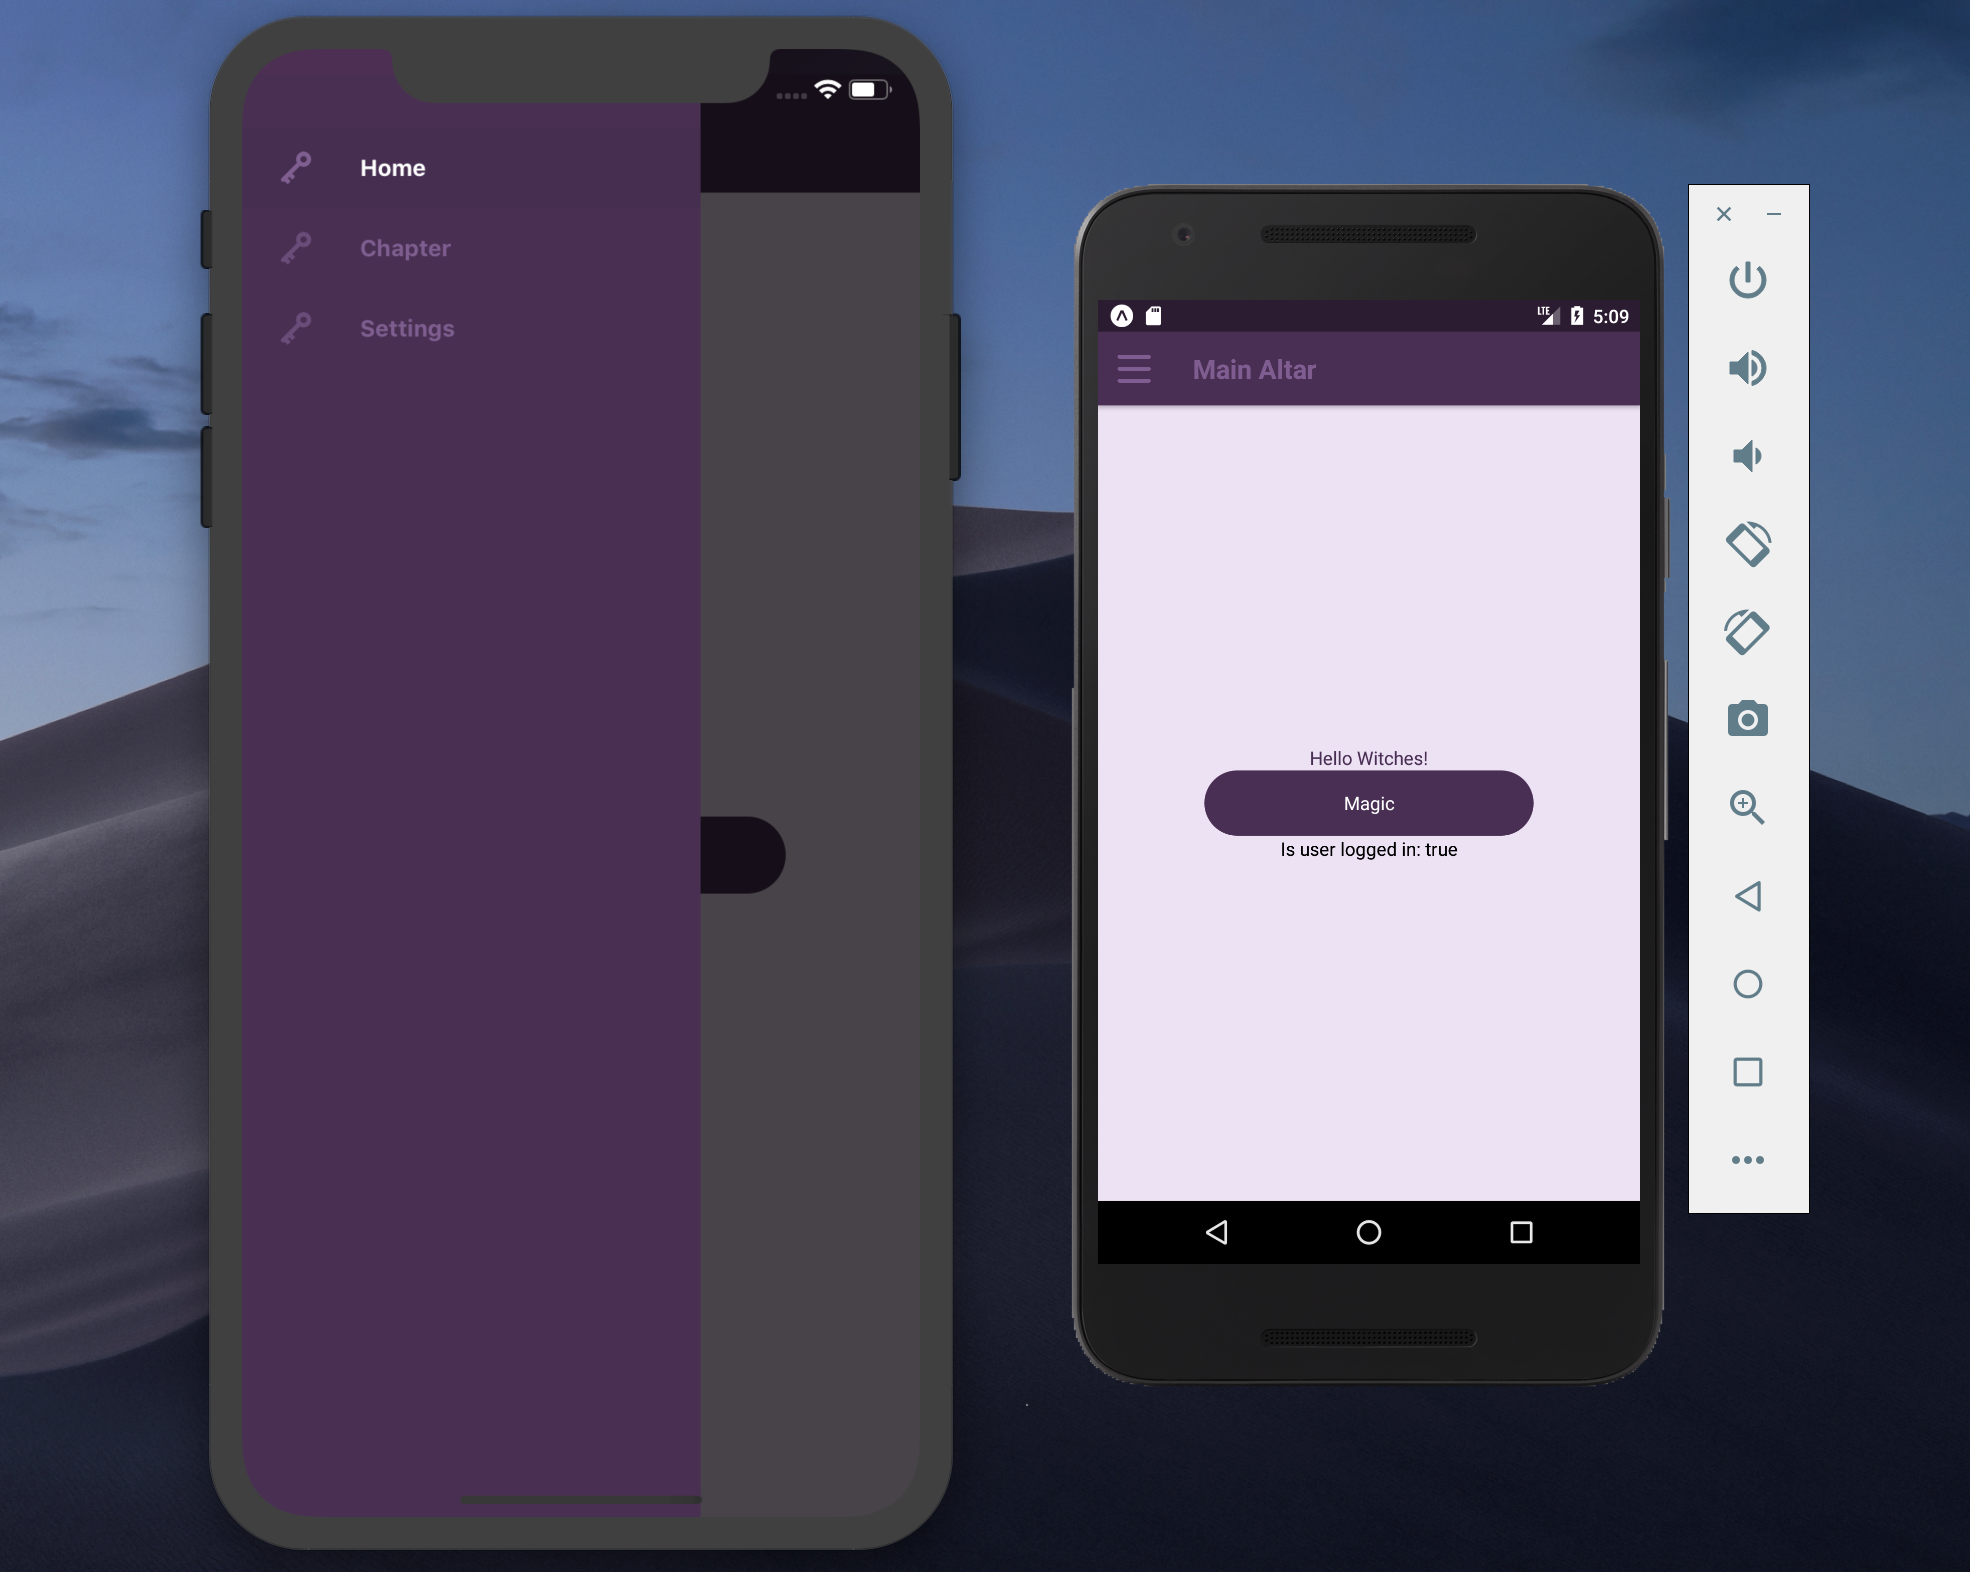
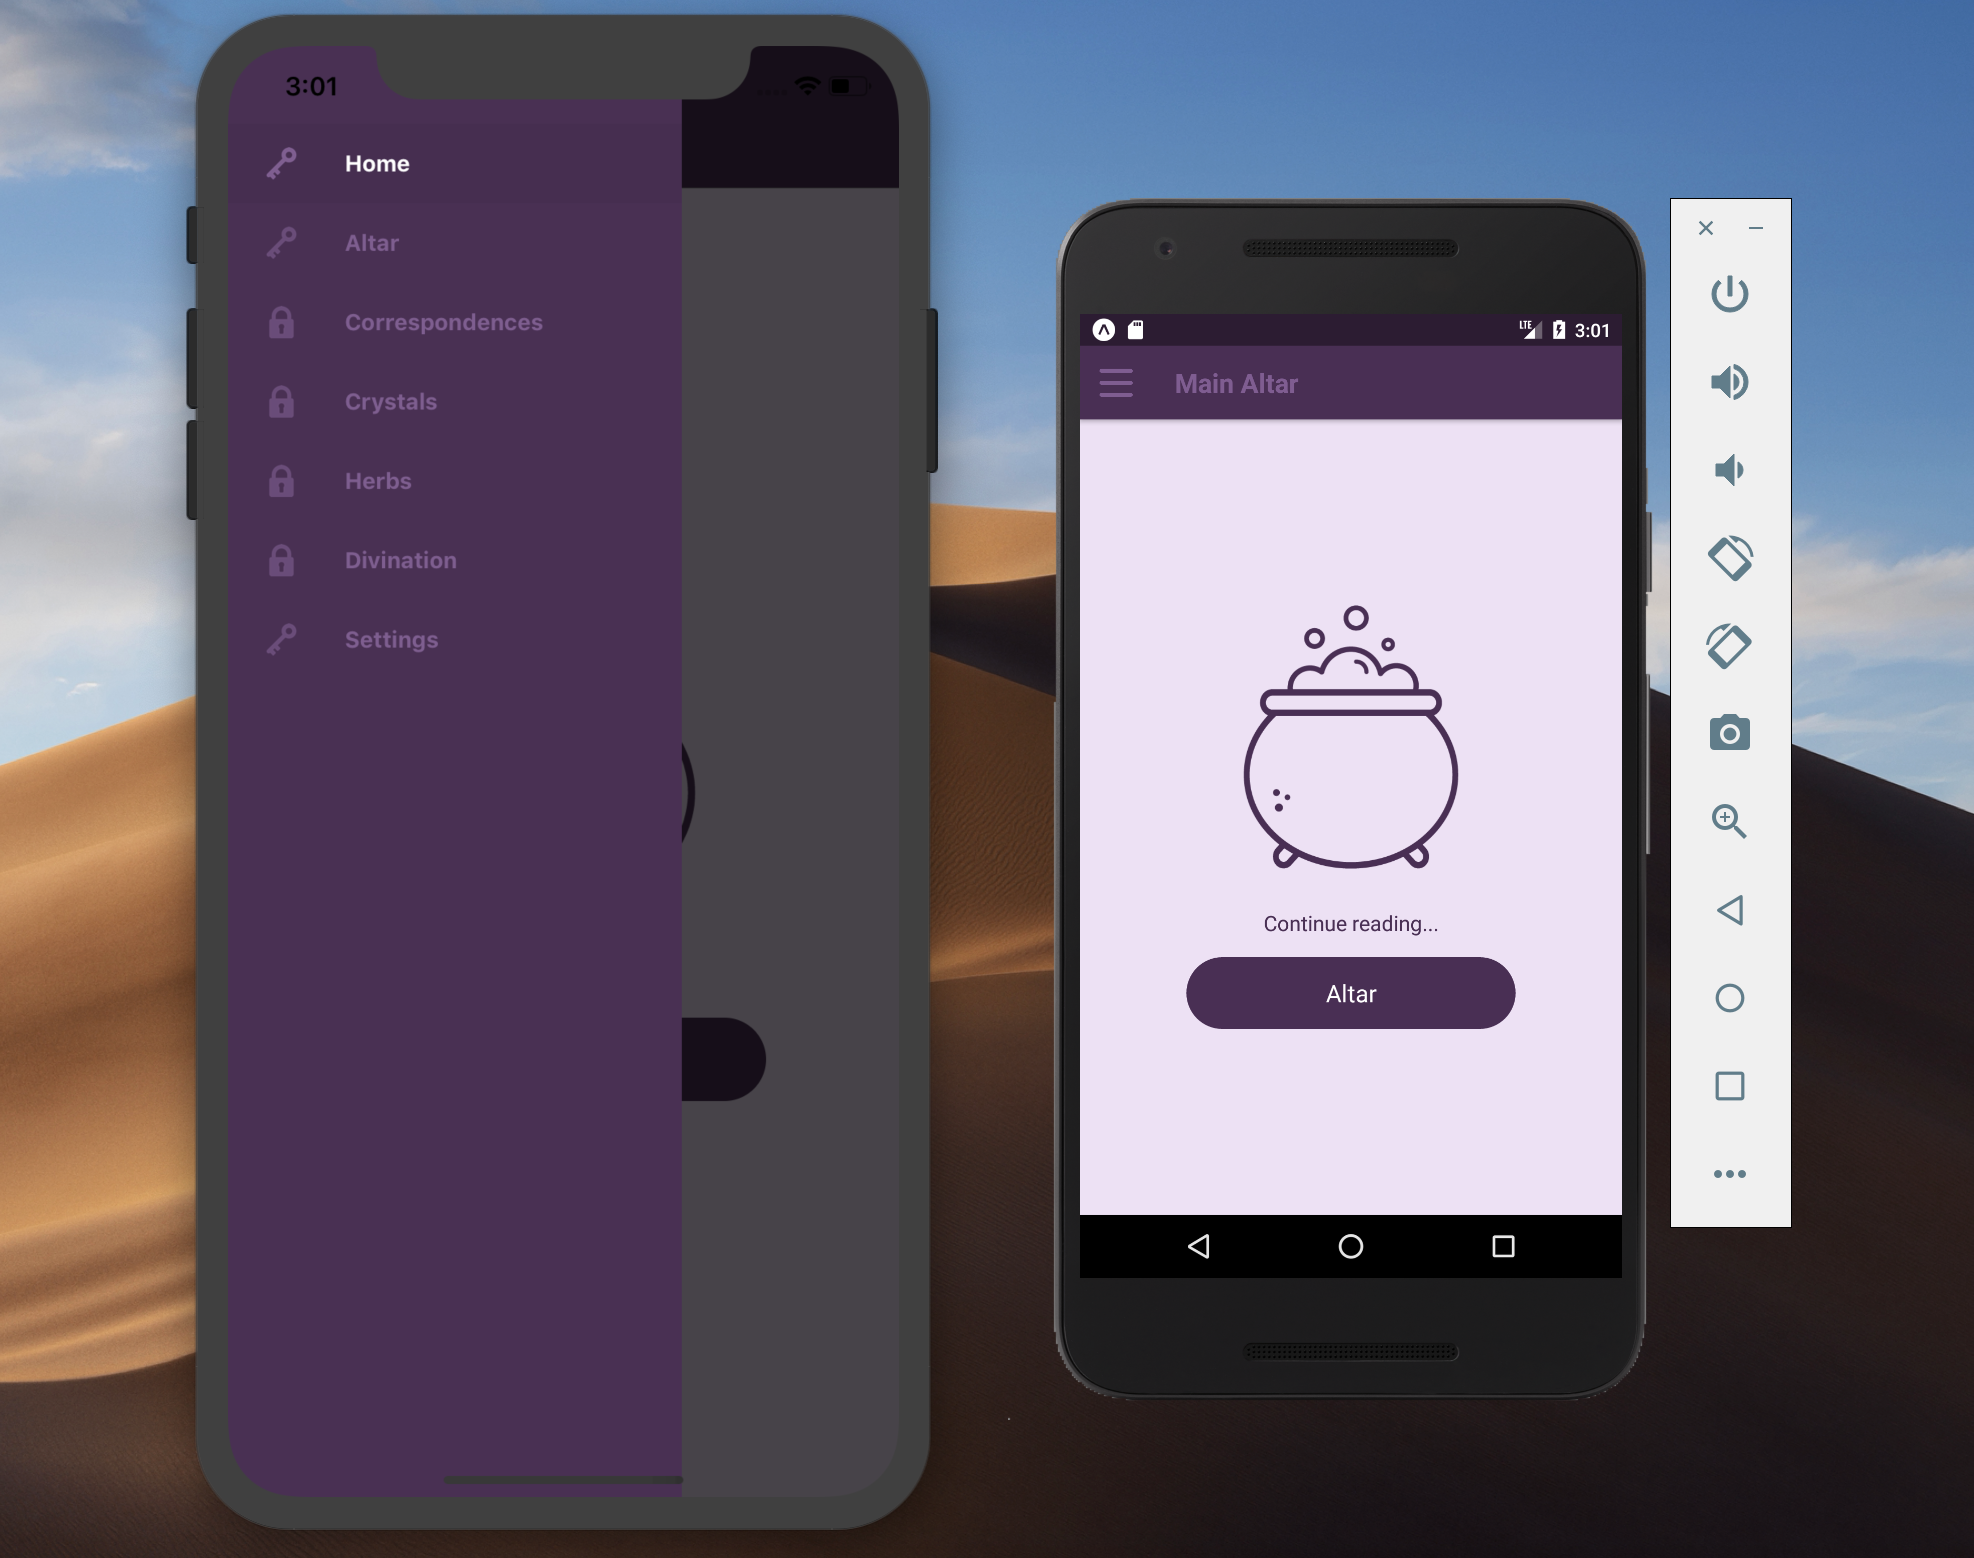
Edit README.md

diff --git a/app/modules/navigator/AppNavigator.js b/app/modules/navigator/AppNavigator.js
@@ -28,6 +28,24 @@ const AppDrawer = createDrawerNavigator({
       drawerIcon: () => (<DrawerItemIcon iconLink={require("../../assets/img/locker.png")} />),
     },
   },
+  Crystals: {
+    screen: ChapterStack,
+    navigationOptions: {
+      drawerIcon: () => (<DrawerItemIcon iconLink={require("../../assets/img/locker.png")} />),
+    },
+  },
+  Herbs: {
+    screen: ChapterStack,
+    navigationOptions: {
+      drawerIcon: () => (<DrawerItemIcon iconLink={require("../../assets/img/locker.png")} />),
+    },
+  },
+  Divination: {
+    screen: ChapterStack,
+    navigationOptions: {
+      drawerIcon: () => (<DrawerItemIcon iconLink={require("../../assets/img/locker.png")} />),
+    },
+  },
   Settings: {
     screen: SettingsStack,
     navigationOptions: {

diff --git a/README.md b/README.md
@@ -30,7 +30,10 @@ Basic tools:
 * Add user's Chapter progress in Firebase.
 
 ## Current views
-![Login and registration](./assets/1.png) <br />
+![Login and registration](./assets/1.png) <br /><br />
+
+The picture on the main screen changes with user's progress (new items are added to the cauldron).
+To access the next Chapter user has to finish reading the current Chapter (blocked Chapters have a locker in the Drawer Menu while unlocked ones are marked with a key).
 ![Main screen and drawer menu](./assets/2.png) <br />
 ![Chapter and page screens](./assets/3.png) <br />
 ![Settings](./assets/4.png) <br />
